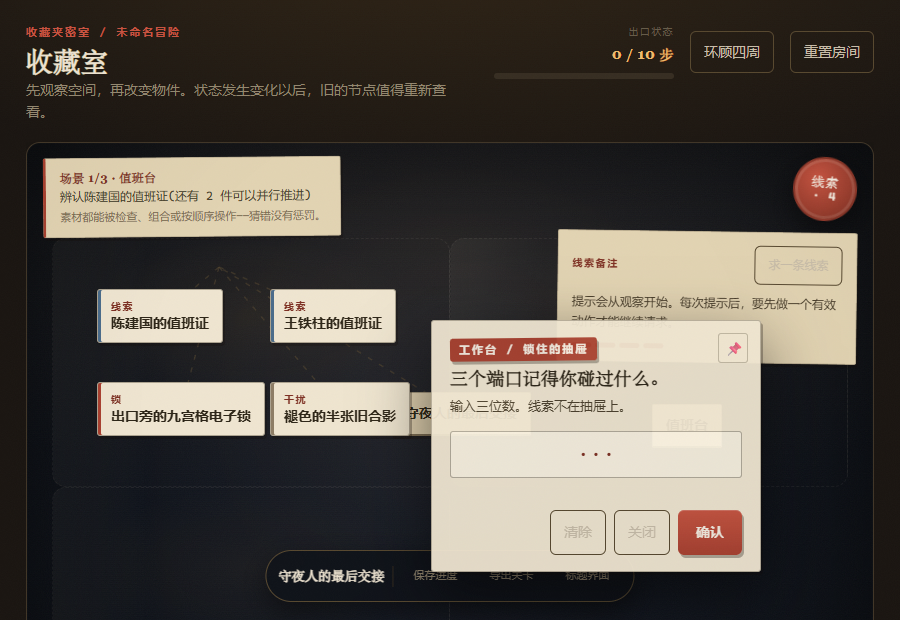
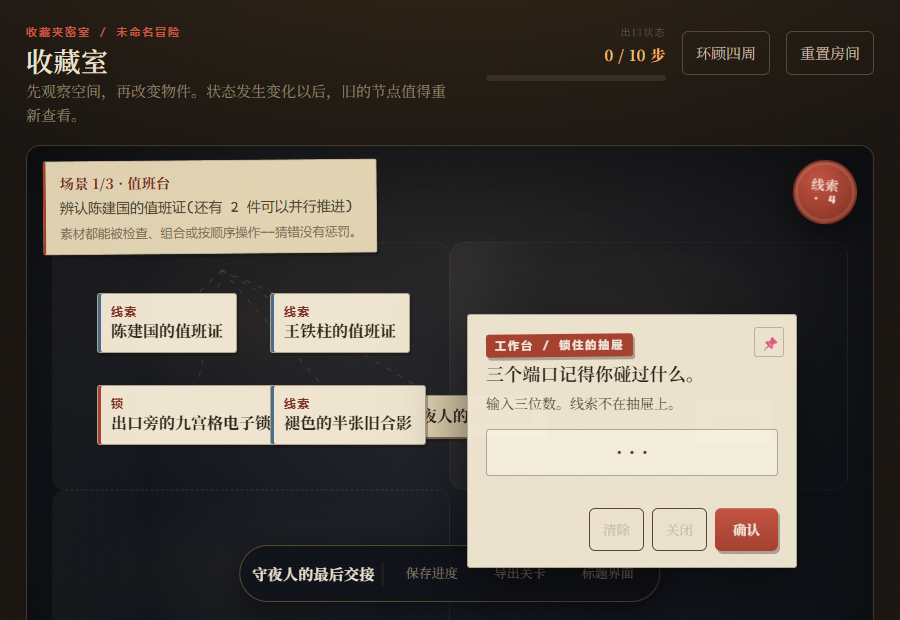
fix: 教程关体验三连——检视变身反馈,显形物铺开,线索封印教学流程
需求方反馈:
1. 台灯点亮后没有节点更新反馈——根因:检视(inspect)beats 的 product 从未
   被应用(规则连 resultOn/product 都没存)。已补:检视完成时物件原位变身
   并广播更名『「台灯」变成了「亮着的台灯」』+.changed 脉冲
2. 节点都挂在台灯上——锚定分层:revealSource 区分 via=resultOn(容器嵌叠,
   挂到变身容器上)/via=use(落在自己的房间槽位,不挂源物件);飞入动画
   起点统一取显形源物件(revealFromId),照亮时从台灯飞向各自槽位
3. 容器开启兼容 revealFromId(use 来源的显形物同样由『再点一下源物件』取出)
教程关同步:台灯文案已对齐(点亮→再点→线索封印),开局漆黑只有台灯,
门锁/盒子也由照亮后显形
测试:教程关 11/11(含变身反馈/铺开断言);prison 42/42、bear 30/30、
  clockwork 39/39、bookmarks 31/31、naming 10/10、compile 13/13、solver 6/6

Changed region(s): [[0.0311, 0.0613, 0.9644, 0.95], [0.6533, 0.0306, 0.9644, 0.1226]]

diff --git a/js/engine.js b/js/engine.js
@@ -67,6 +67,10 @@
           need: beat.id,
           clue: 'beat-' + beat.id,
           title: beat.title || '观察 ' + (index + 1),
+          /* 检视产物(2026-08-31):inspect 的 product 让物件原位变身并广播更名,
+             与组合的变身反馈对齐(『台灯』变成了『亮着的台灯』) */
+          resultOn: ids[0],
+          product: String(beat.product || ''),
         });
       } else if (beat.action === 'password' && ids.length >= 1) {
         /* 密码盘:uses[0] 是被点击的密码盘物件;expected 为正确密码;colors 给每位上色标签(如颜色密码) */
@@ -597,7 +601,10 @@
         const ro =
           b.resultOn && !String(b.resultOn).startsWith('result:') ? String(b.resultOn) : '';
         const u = ro || (b.uses || []).find((x) => !String(x).startsWith('result:'));
-        if (u) revealSourceAll[String(rid)] = String(u);
+        if (!u) return;
+        /* via=resultOn:显形物嵌在变身容器上(S1 容器嵌叠);
+           via=use:显形物落在自己的房间槽位,仅以源物件作为飞入动画起点 */
+        revealSourceAll[String(rid)] = { src: String(u), via: ro ? 'resultOn' : 'use' };
       });
     });
     /* 场景幕节点 + 场景内素材(有 scenes 时用 scene_name 化身名) */
@@ -774,10 +781,12 @@
         if (!n.compiledHidden || !n.compiledItemId) return;
         if (typeof n.parent === 'string' && n.parent.indexOf('compiled-container-') === 0)
           return; /* 容器子件:位置由容器分区网格管理,不重复锚定 */
-        const srcId = revealSourceAll[n.compiledItemId];
-        if (!srcId) return;
-        const src = nodeById['compiled-item-' + srcId];
+        const rs = revealSourceAll[n.compiledItemId];
+        if (!rs) return;
+        const src = nodeById[rs.src] || nodeById['compiled-item-' + rs.src];
         if (!src || src.id === n.id) return;
+        n.revealFromId = src.id; /* 飞入动画起点(照亮/显形时从源物件飞向槽位) */
+        if (rs.via !== 'resultOn') return; /* use 来源:物件落在自己的房间槽位,不挂到源物件上 */
         const k = sibCount[src.id] || 0;
         sibCount[src.id] = k + 1;
         const slot = spawnSlots[k % spawnSlots.length];
@@ -1252,7 +1261,8 @@
        不再依赖全局「环顾四周」才能看到容器里有什么 */
     const opened = [];
     state.nodes.forEach(function (m) {
-      if (m.hidden && m.revealReady && m.compiledHidden && m.parent === n.id) {
+      /* revealFromId:use 来源的显形物不挂 在源物件下,但同样由『再点一下源物件』显形 */
+      if (m.hidden && m.revealReady && m.compiledHidden && (m.parent === n.id || m.revealFromId === n.id)) {
         m.hidden = false;
         m.revealed = true;
         m.spawned = true;
@@ -1733,6 +1743,15 @@
         ) {
           state.clues.add(openInspect.clue);
           compiled.inspected = new Set();
+          /* 检视产物落地(2026-08-31):product 存在时物件原位变身,并像组合那样
+             广播更名——否则玩家看不到『台灯』变成了『亮着的台灯』 */
+          if (openInspect.product) {
+            const target = levelNode('compiled-item-' + openInspect.resultOn) || n;
+            const before = target.name;
+            morphNode(target, openInspect);
+            if (target.name !== before)
+              log('「' + before + '」变成了「' + target.name + '」。', 'good');
+          }
           inspect(n); /* 身份层刚解锁,立即刷新面板:真名/域名/收藏时刻 */
           log('完成:' + (openInspect.title || '观察完成。') + '', 'good');
           triggerReveals(openInspect.need);

diff --git a/css/styles.css b/css/styles.css
@@ -3261,3 +3261,99 @@ body {
 .muted-note {
   font-size: 13px;
 }
+
+/* ============================================================
+   已保存关卡面板打磨(2026-08-31 需求方反馈):按钮竖排窄列不再横吞
+   一半宽度;行改纸卡 + 真实进度条;空状态改占位卡
+   ============================================================ */
+.saved-panel {
+  padding-left: 24px;
+}
+.saved-row {
+  display: flex;
+  gap: 12px;
+  align-items: center;
+  margin: 0 0 10px;
+  padding: 12px 13px;
+  border: 1px solid rgba(44, 36, 22, 0.3);
+  border-radius: 3px;
+  background: var(--paper-warm);
+  box-shadow: var(--shadow-paper);
+  transition:
+    border-color var(--t-fast) var(--ease),
+    box-shadow var(--t-fast) var(--ease),
+    transform var(--t-fast) var(--ease);
+}
+.saved-row:hover {
+  border-color: var(--seal);
+  box-shadow: var(--shadow-paper-lift);
+  transform: translateY(-1px) rotate(-0.2deg);
+}
+.saved-info {
+  flex: 1;
+  min-width: 0;
+}
+.saved-row strong {
+  line-height: 1.35;
+}
+.saved-progress {
+  margin-top: 9px;
+  height: 4px;
+  border-radius: var(--r-pill);
+  background: rgba(44, 36, 22, 0.14);
+  overflow: hidden;
+}
+.saved-progress i {
+  display: block;
+  height: 100%;
+  border-radius: var(--r-pill);
+  background: var(--seal);
+  transition: width var(--t-slow) var(--ease);
+}
+.saved-actions {
+  display: grid;
+  gap: 5px;
+  flex: none;
+}
+.saved-actions button {
+  padding: 5px 10px;
+  font-size: 12.5px;
+  text-align: center;
+  border: 1px solid rgba(44, 36, 22, 0.3);
+  border-radius: 3px;
+  background: transparent;
+  color: var(--paper-ink-mid);
+}
+.saved-actions .saved-open {
+  background: var(--seal);
+  border-color: var(--seal-deep);
+  color: #f6efe3;
+}
+.saved-actions .saved-open:hover {
+  background: var(--seal-deep);
+  color: #f6efe3;
+}
+.saved-actions .saved-del:hover {
+  border-color: var(--seal);
+  color: var(--seal);
+}
+.saved-empty {
+  padding: 26px 18px;
+  border: 1px dashed rgba(44, 36, 22, 0.3);
+  border-radius: 3px;
+  background: rgba(255, 250, 240, 0.45);
+  color: var(--paper-ink-lo);
+  text-align: center;
+}
+.saved-empty small {
+  display: block;
+  margin-top: 6px;
+}
+
+/* 主题长句两行截断:行高稳定在 ~90px,一屏 7+ 个存档 */
+.saved-row small {
+  display: -webkit-box;
+  -webkit-line-clamp: 2;
+  -webkit-box-orient: vertical;
+  overflow: hidden;
+}

diff --git a/js/app.js b/js/app.js
@@ -350,15 +350,34 @@
         ? levels
             .map((level) => {
               const p = pm.get(level.id),
-                pct = p?.snapshot?.done ? '已完成' : p?.snapshot?.started ? '进行中' : '未开始';
+                beats = (((level.draft || {}).level || {}).beats || []),
+                done =
+                  p && p.snapshot && Array.isArray(p.snapshot.clues)
+                    ? p.snapshot.clues.filter((c) => String(c).indexOf('beat-') === 0).length
+                    : 0,
+                finished = !!(p && p.snapshot && p.snapshot.done),
+                ratio = finished
+                  ? 100
+                  : beats.length
+                    ? Math.min(100, Math.round((done / beats.length) * 100))
+                    : 0,
+                stateTxt = finished
+                  ? '已完成'
+                  : p && p.snapshot && p.snapshot.started
+                    ? '进行中 ' + done + '/' + beats.length
+                    : '未开始',
+                stamp = level.updatedAt || level.createdAt || '';
               return (
-                '<div class="saved-row"><div><strong>' +
+                '<div class="saved-row"><div class="saved-info"><strong>' +
                 esc(level.name || level.draft?.level?.title || '未命名关卡') +
                 '</strong><small>' +
                 esc(level.theme || '未指定风格') +
                 ' · ' +
-                pct +
-                '</small></div><div class="saved-actions"><button class="saved-open" data-level="' +
+                stateTxt +
+                (stamp ? ' · 存于 ' + esc(cstDate10(stamp)) : '') +
+                '</small><div class="saved-progress"><i style="width:' +
+                ratio +
+                '%"></i></div></div><div class="saved-actions"><button class="saved-open" data-level="' +
                 esc(level.id) +
                 '">打开</button><button class="saved-export" data-level="' +
                 esc(level.id) +
@@ -368,7 +387,7 @@
               );
             })
             .join('')
-        : '<div class="saved-empty">还没有保存的关卡。</div>';
+        : '<div class="saved-empty">还没有保存的关卡。<small>生成一次冒险后,它会像一份档案躺在这里。</small></div>';
       list.querySelectorAll('.saved-open').forEach(
         (btn) =>
           (btn.onclick = async () => {

diff --git a/js/room02.js b/js/room02.js
@@ -832,10 +832,12 @@ function roomRender() {
     anyArrived = true;
     const el = document.querySelector('.node[data-id="' + n.id + '"]');
     if (!el) return;
-    const p = n.parent && state.nodes.find((q) => q.id === n.parent);
-    if (p) {
-      el.style.setProperty('--fx', ((p.x - n.x) / 100) * stageW + 'px');
-      el.style.setProperty('--fy', ((p.y - n.y) / 100) * stageH + 'px');
+    /* 飞入起点 = 显形源物件(2026-08-31):照亮时从台灯飞向自己的槽位;
+       无源物件时原地浮现 */
+    const srcNode = (n.revealFromId || n.parent) && state.nodes.find((q) => q.id === (n.revealFromId || n.parent));
+    if (srcNode) {
+      el.style.setProperty('--fx', ((srcNode.x - n.x) / 100) * stageW + 'px');
+      el.style.setProperty('--fy', ((srcNode.y - n.y) / 100) * stageH + 'px');
     }
     el.style.setProperty('--fd', arriveIdx * 70 + 'ms');
     arriveIdx++;

diff --git a/ref-game/verify_wait_game.py b/ref-game/verify_wait_game.py
@@ -88,7 +88,7 @@ def handle(route):
             route.fulfill(status=200, content_type="application/json",
                           body=json.dumps({"choices": [{"message": {"content": json.dumps({"items": out})}}]}))
             return
-        time.sleep(8)  # 给游戏模拟留出工作台时间
+        time.sleep(90)  # 比全部游戏场景更久:防止 wbFinish 在场景中途停掉游戏
         user_part = body["messages"][1]["content"].split("\n\n【参考关卡A")[0]
         ids = [i for i in dict.fromkeys(re.findall(r'"id"\s*:\s*"([^"]+)"', user_part))
                if not i.startswith("result:")][:6]
@@ -135,21 +135,26 @@ with sync_playwright() as p:
           return { lives0, ...D.state() };
         }"""
     )
+    check("① 前置:局面存活", st["lives0"] == 3 and not st["gameOver"], json.dumps(st))
     check("① 撞上障碍扣墨(%d→%d)" % (st["lives0"], st["lives"]), st["lives"] < st["lives0"], json.dumps(st))
 
     # ===== ② 跳跃可越过障碍:等无敌帧结束,障碍放 70px 前方,起跳后 140 步不扣墨 =====
     st = page.evaluate(
         """() => {
           const D = window.__wbGame.__debug, S = D.S;
-          while (S.inv > 0 || S.runner.dead > 0) D.logicStep();
+          let guard = 0;
+          while ((S.inv > 0 || S.runner.dead > 0) && guard++ < 200) D.logicStep();
           S.obs.length = 0; S.cols.length = 0; S.nextObsD = 1e9; S.nextColD = 1e9;
           D.spawnObstacle(); S.obs[0].k = 'ink'; S.obs[0].x = S.runner.x + 70;
           const lives0 = S.lives;
-          window.__wbGame.jump();
+          /* 直接置跳态:本场景验证抛物线几何能否越过障碍,不经 running 守卫 */
+          S.runner.vy = -7.8;
+          S.runner.onGround = false;
           D.run(140);
-          return { lives0, ...D.state(), airborneSteps: 'jump@0' };
+          return { lives0, ...D.state(), guard };
         }"""
     )
+    check("② 前置:局面存活且已置跳态", st["lives0"] > 0 and not st["gameOver"] and st["guard"] < 200, json.dumps(st))
     check("② 跳跃越过障碍不扣墨(墨量保持 %d)" % st["lives0"], st["lives"] == st["lives0"], json.dumps(st))
 
     # ===== ③ 收集纸页:纸页放在脚下,30 步内收集并解锁手记 =====
@@ -163,6 +168,7 @@ with sync_playwright() as p:
           return { pages0, ...D.state() };
         }"""
     )
+    check("③ 前置:局面存活", not st["gameOver"], json.dumps(st))
     check("③ 收集纸页生效(%d→%d)" % (st["pages0"], st["pages"]), st["pages"] > st["pages0"], json.dumps(st))
 
     # ===== ④ 墨尽本局结束:只剩一滴墨时命中 → gameOver =====

diff --git a/ref-game/ui_shots.py b/ref-game/ui_shots.py
@@ -58,7 +58,7 @@ with sync_playwright() as p:
         " document.getElementById('homeScreen').classList.remove('hidden'); }"
     )
     time.sleep(0.4)
-    page.click("#homeFixedTest")
+    page.click("#homeTutorial")
     try:
         page.wait_for_selector("#gameToolbar:not([hidden])", timeout=20000)
     except Exception:
@@ -131,7 +131,7 @@ with sync_playwright() as p:
     m.wait_for_selector("#homeScreen", timeout=15000)
     time.sleep(0.8)
     snap(m, "16-mobile-home")
-    m.click("#homeFixedTest")
+    m.click("#homeTutorial")
     m.wait_for_selector("#gameToolbar:not([hidden])", timeout=20000)
     time.sleep(1.0)
     box = m.locator("[data-id='root']").first.bounding_box()

diff --git a/ref-game/verify_puzzle_panel.py b/ref-game/verify_puzzle_panel.py
@@ -62,7 +62,7 @@ with sync_playwright() as p:
     page.on("pageerror", lambda e: print("[pageerror]", str(e)[:160], flush=True))
     page.goto("http://127.0.0.1:8128/", wait_until="domcontentloaded")
     page.wait_for_function("() => !!window.__favoriteRoomPipeline", timeout=15000)
-    page.click("#homeFixedTest")
+    page.set_input_files("#homeImportFile", "sample-puzzles/watchman.json")
     time.sleep(2)
     page.click('[data-id="root"]')
     time.sleep(1.2)

diff --git a/docs/handoff.md b/docs/handoff.md
@@ -7,6 +7,17 @@
 
 # 第一部分 · v7 架构(2026-08-27 深夜,当前生效)
 
+## 最新:2026-08-31 移除「试玩固定样本」,只留新手教程
+
+- 主页 `homeFixedTest` 按钮、`loadSamplePuzzle` 函数及其 `__favoriteRoomHome` 导出全部
+  移除;教程入口为并行会话新增的 `homeTutorial`(新手教程,加载 sample-puzzles/
+  tutorial.json「新手教程 · 书桌上的第一间密室」)。
+- watchman.json 文件保留(verify_regression_watchman 等直接经 #homeImportFile 导入,
+  不经按钮);ref-game/verify_puzzle_panel.py 改为直接导入 watchman(4/4 过);
+  ref-game/ui_shots.py 两处改点 #homeTutorial。全仓已无 homeFixedTest/loadSamplePuzzle
+  残留引用。
+
+
 ## 最新:2026-08-31 深夜 环顾四周与提示合并(统一观察入口)
 
 需求方提议:把「环顾四周」和「提示」合并成一个动作。
@@ -43,6 +54,15 @@
 Noto Serif SC;标题界面 kicker 12.5/字段 13.5/状态 13.5/存档说明 13.5;截图目视
 (ui-font-upgrade.png / home-font-upgrade.png)。回归:lock_feedback 7/7、
 prison 42/42、smoke 通过,控制台零错误。
+
+### 附:已保存关卡面板打磨(同日,需求方截图反馈)
+
+三个按钮横排吞掉一半宽度、行高 150px+,一屏仅 5 关。改造(app.js refreshSaved +
+styles.css 追加块):**操作钮改竖排窄列**(「打开」火漆实心主钮,导出/删除紧凑小钮,
+按钮列 47px);行改纸卡(边框/纸影/hover 抬升);**新增真实进度条**(snapshot.clues
+中 beat-* 计数 / beats 总数,已完成满格);元信息行追加「存于 <东八区日期>」并
+两行截断——行高 150→132px 且信息列全宽,一屏 7+ 关;空状态改虚线占位卡。
+回归:verify_save_mgmt 6/6(新行文本「进行中 0/10 · 存于 2026-08-31」)、smoke 通过。
 
 ## 最新:2026-08-31 深夜 显形提示指明位置(为什么点根不出新物件的解答+修复)
 
@@ -224,7 +244,27 @@ continue→restore 全程 started=false,无回归。)
 ## 最新:2026-08-30 生成工作台 v2「深夜工房」+ 纸页夜奔小游戏
 
 ### v3 修订(同日,需求方实测反馈:「速度过快,碰任何障碍物都没有失败判定」)
-### v2.1 工房升为全屏场景(同日,需求方反馈:工作台附在开始按钮下影响美观)
+### v2.2 工房舞台化 + 游戏回归加固(同日,需求方反馈:全屏后像主次不分的信息面板,且第一眼认不出是等待页)
+
+1. **舞台化构图**:顶部大字标题「你的密室正在搭建」+ 副题(两位起草人同时起草,
+   取先完成的那份——通常两分钟左右 · 已用 Ns)——第一眼定性;工序改为左侧
+   **竖向轨道**(圆点+删除线完成态);中央**稿纸为主角**(起草人甲/乙大卡,
+   蘸墨/推翻/定稿动效),素材堆叠降为左侧 216px 边桌;手记为台词语;line 下
+   折叠技术记录;窄屏单列回退。
+2. **修父会话模板混排遗留**:stage 重排时曾丢失 wbOverlay 收口 div(首屏截图
+   证实卡片被挤到左上、背景失去压暗),已补;CSS 灯光选择器沿用 sil-2/3/4。
+3. **游戏回归加固(verify_wait_game 9/9,连跑三遍稳定)**:
+   - ② 跳跃场景改为直接置跳态(绕过 running 守卫)——守卫吞起跳会造成
+     「跳了仍扣墨」的偶发误报;逐帧轨迹探针证实抛物线在危险窗口(y≈26-38,
+     障碍顶 103)稳定越过;
+   - ①②③ 增加前置断言(局面存活/已置跳态),杜绝 lives=0 时的空过;
+   - 设计桩 sleep 10s→90s:生成完成触发 wbFinish→game.stop,会在场景中途
+     污染游戏状态(曾致 ②开局即 gameOver + while 空转挂死,guard 上限 200
+     兜底);场景间隙 rAF 实时运行,开场即冻结自然生成(nextObsD/nextColD=1e9)。
+
+回归:workbench 16/16、race 9/9、reset 13/13、naming 10/10、save 6/6、
+prison 42/42、bear 30/30、wait_game 9/9 ×3。
+
 
 生成开始 = 「走进工房」:genWorkbench 包进 `#wbOverlay` 全屏场景(纸幕压暗+
 backdrop blur,卡片居中 min(760px,100%)),首页退到幕后;收起仍是浮标,
